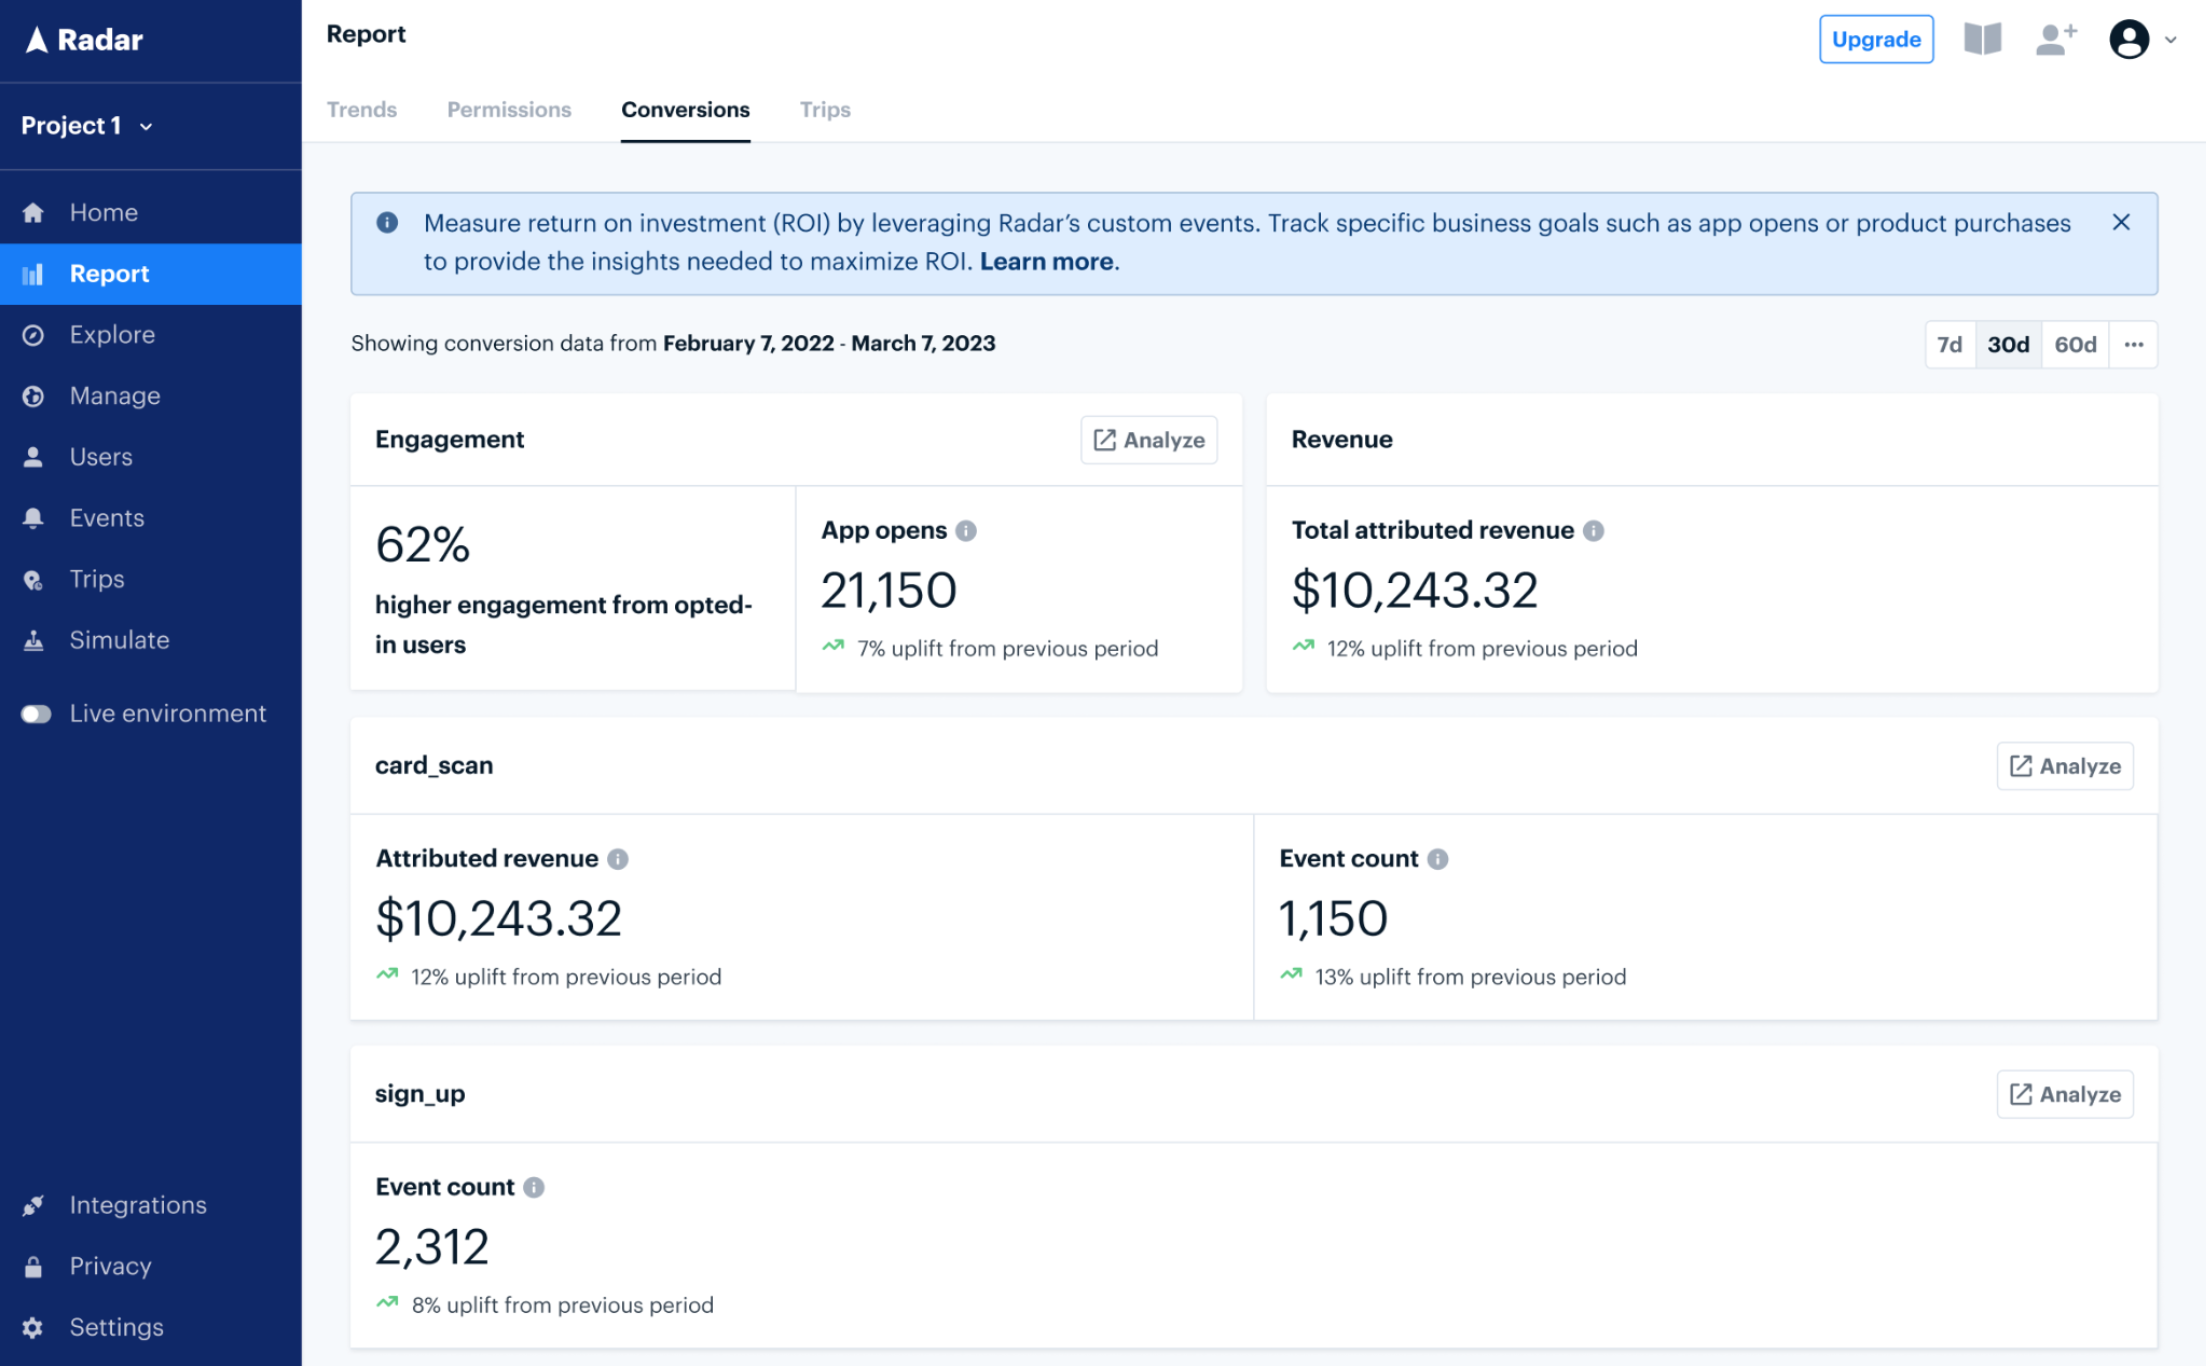
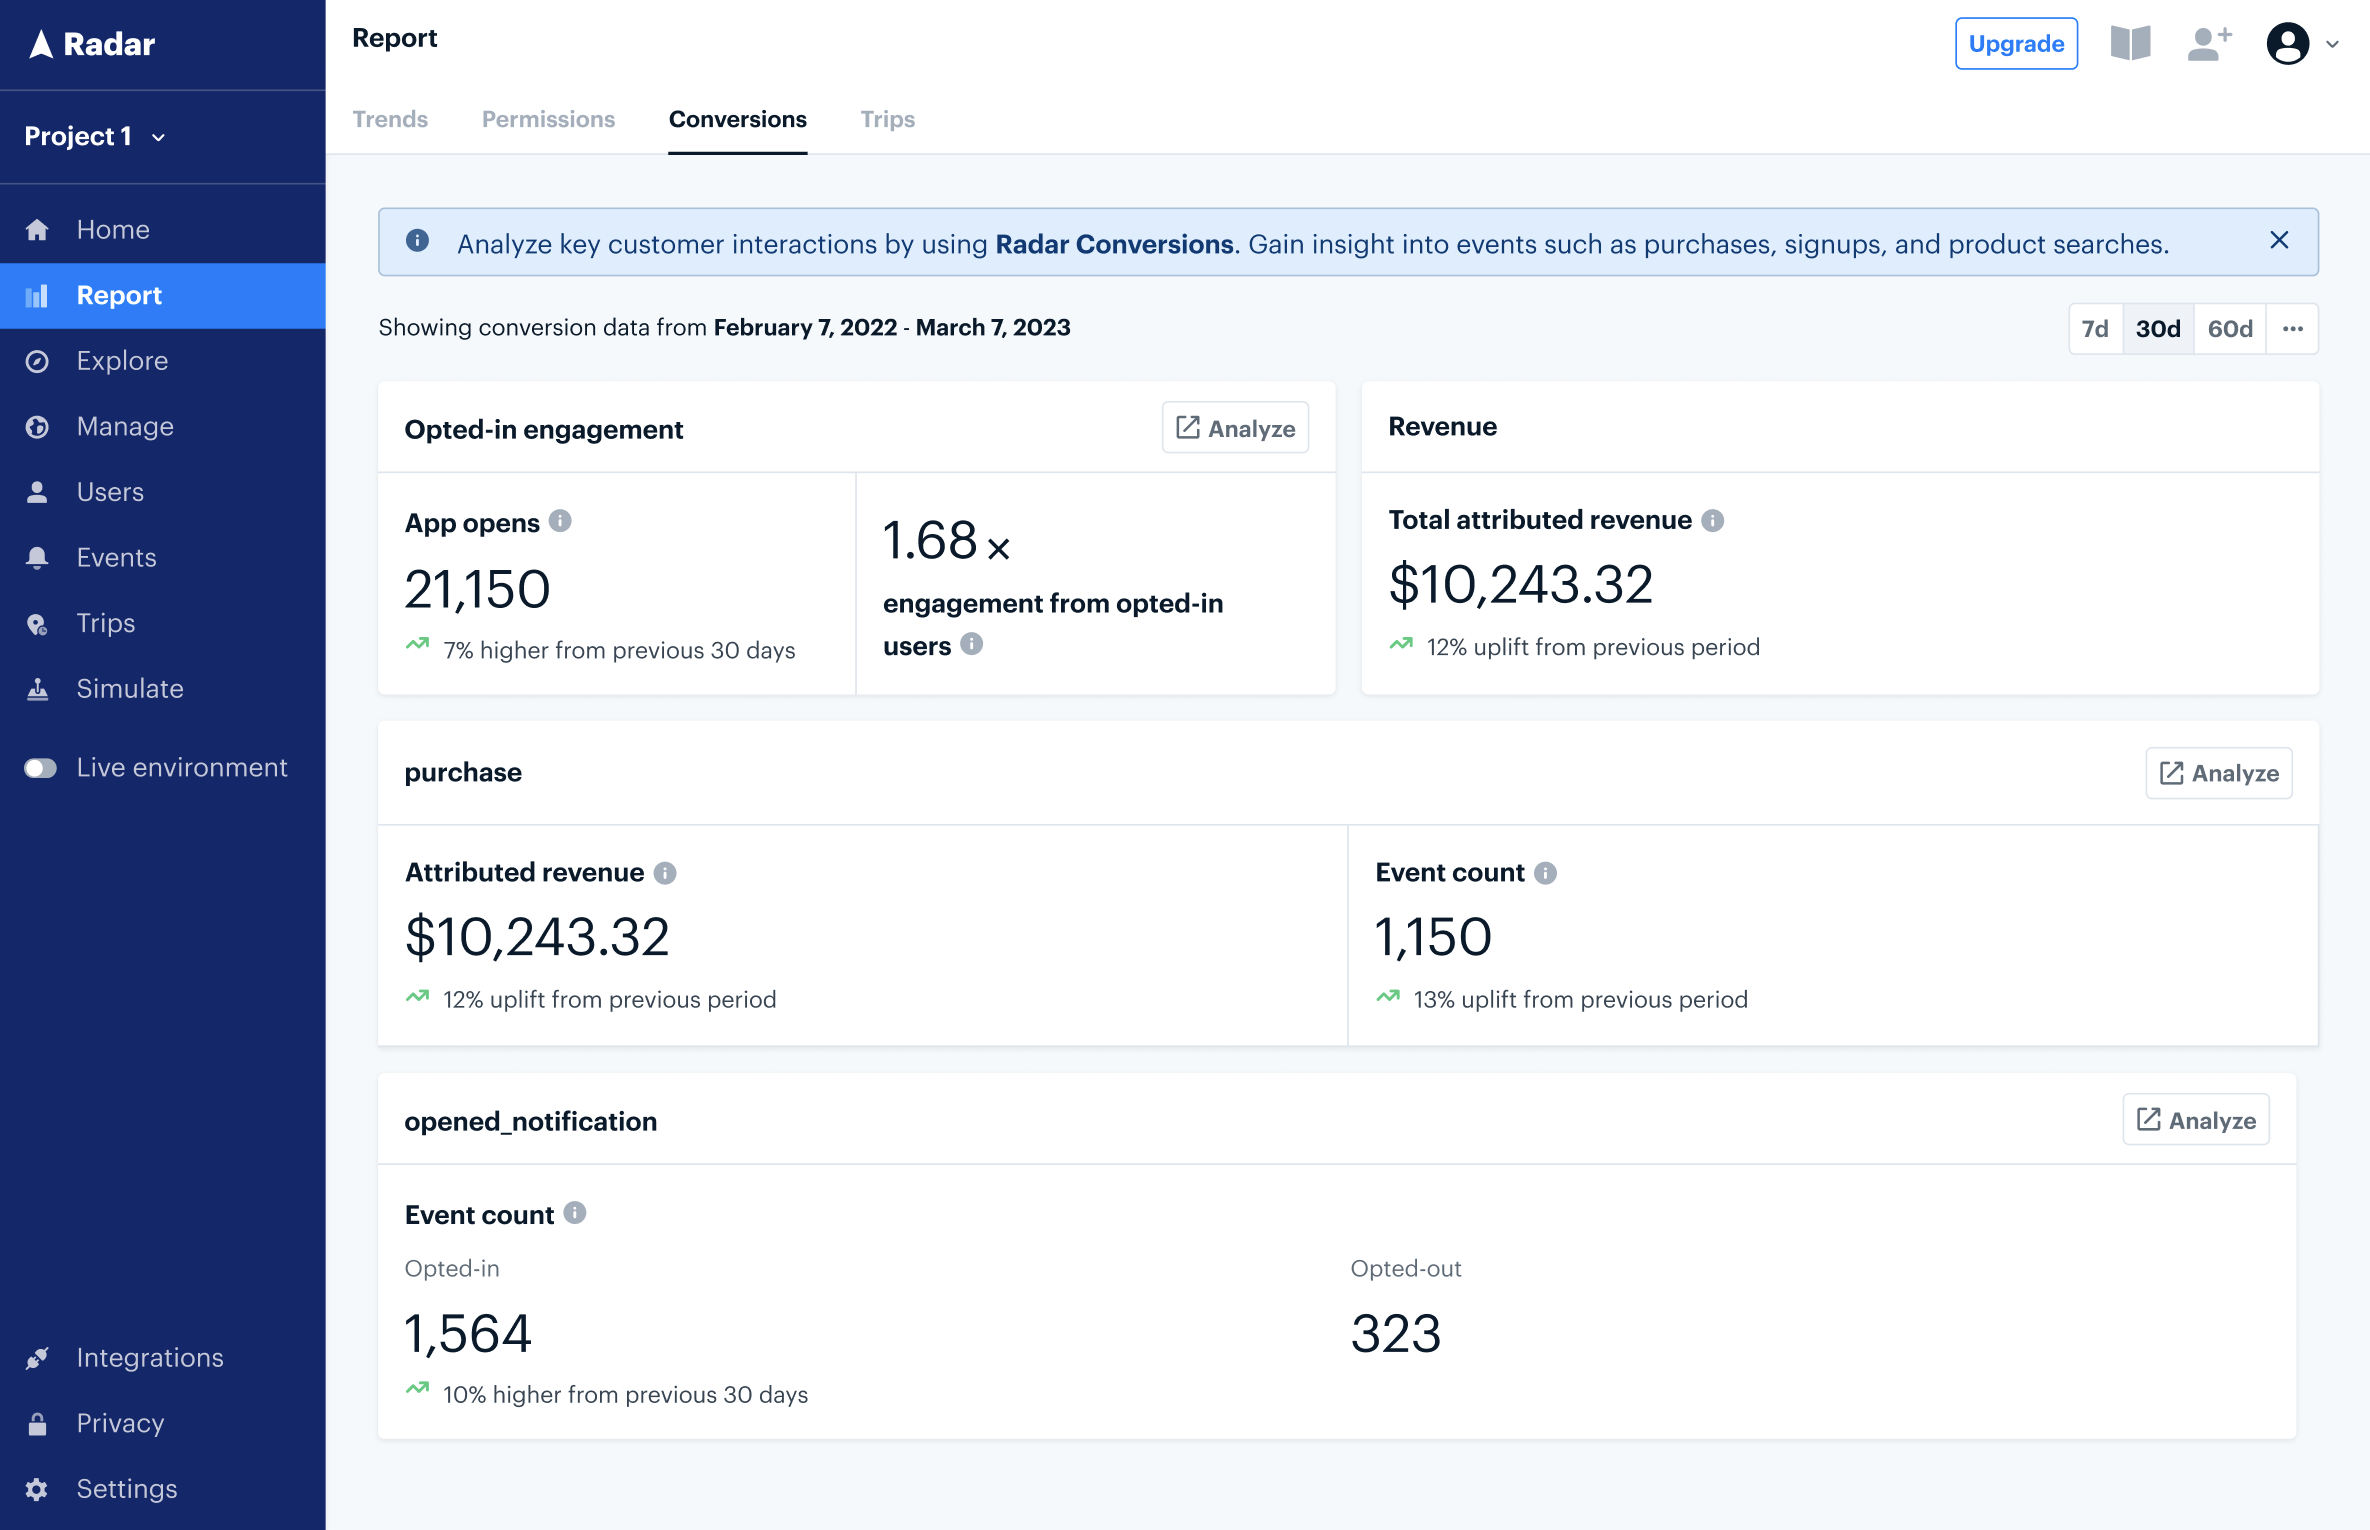
updated image, polish

diff --git a/docs/tutorials/logging-and-analyzing-where-conversions-occur.md b/docs/tutorials/logging-and-analyzing-where-conversions-occur.md
@@ -79,15 +79,15 @@ When your app starts, in application `onCreate()`, initialize the SDK with your 
 
   }
   ```
-### Step 3: Determine the events you want to track
+### Step 3: Determine the conversions you want to track
 To take advantage of Radar's conversions API, you need to identify the events that are important to your business. Here are some examples:
 
-| Event name | Example purpose                                                                                                     | Placement                           | Event properties                                                               |
+| Conversion name | Example purpose                                                                                                     | Placement                           | Event properties                                                               |
 |------------|---------------------------------------------------------------------------------------------------------------------|-------------------------------------|--------------------------------------------------------------------------------|
 | `purchase`   | Measure the revenue driven from location-enabled features | After a user makes a purchase              | `revenue` (number) <br /> `pickup` (boolean) <br /> `in_store_mode` (boolean) |
 | `order_placed`  | Understand where users are placing orders within the app to prioritize personalized features                       | After a user places an order      | `revenue` (number) <br /> `applied_coupon` (boolean)                                                                             |
 | `sign_up`    | Measure which stores are driving sign ups through store promotions                                               | After a user completes the signup flow | `referrer` (string) <br /> `rewards` (boolean)                                            |
-| `product_search`    | Understand where customers are searching for products (i.e., in specific stores or at competitor locations)                                               |  | `section` (string)                                         |
+| `product_search`    | Understand where customers are searching for products (i.e., in specific stores or at competitor locations)                                               | After a user searches for a product  | `section` (string)                                         |
 
 ### Step 4: Set up Radar geofences or places
 
@@ -136,9 +136,9 @@ Radar.sendEvent(
 </Tabs>
 
 ### Step 6: Conversions overview in the Radar dashboard
-The [Report](https://radar.com/dashboard/report&view=conversions) page of the Radar dashboard has a _Conversions_ tab that provides an overview of all conversions logged for a project. Understand how engagement with your app differs between opted-in and opted-out users. See the total revenue across all conversions that have been logged with the `revenue` parameter.
+The [Report](https://radar.com/dashboard/report&view=conversions) page of the Radar dashboard has a _Conversions_ tab that provides an overview of all conversions logged for a project. Understand how engagement with your app differs between opted-in and opted-out users. See the total revenue across all conversions that have been logged with `revenue`.
 
-The below is an example of a fully populated _Conversions_ page with engagement metrics and logged conversions with and without a `revenue` amount:
+Below is an example of a fully populated _Conversions_ page for a project that has logged conversions for `purchase` and `opened_notification` events:
 ![Conversions report page](/img/tutorials/conversions-report-page.png)
 
 
